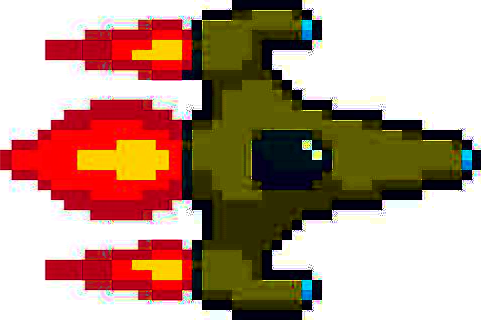
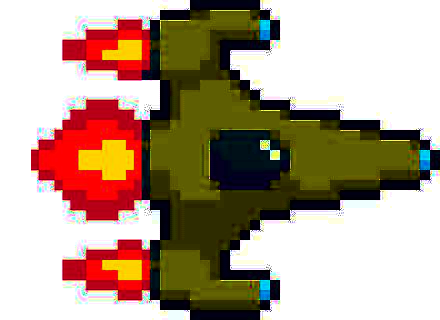
fix animation of the spaceship

diff --git a/spaceship.py b/spaceship.py
@@ -30,8 +30,10 @@ class SpaceShip:
 	def __init__(self, display, x, y, direction, image, frequency=20):
 		self.display = display
 		self.strForImage2 = image[:len(image)-4] + '2' + image[-4:]
-		self.image = pygame.transform.scale(load_file(image), percentPix((8,10)))
+		self.strForImage3 = image[:len(image)-4] + '3' + image[-4:]
+		self.image = pygame.transform.scale(load_file(image), percentPix((9,10)))
 		self.image2 = pygame.transform.scale(load_file(self.strForImage2), percentPix((9,10)))
+		self.image3 = pygame.transform.scale(load_file(self.strForImage3), percentPix((9,10)))
 		if not direction:
 			self.image = pygame.transform.flip(self.image, True, False)
 			self.image2 = pygame.transform.flip(self.image2, True, False)
@@ -58,14 +60,16 @@ class SpaceShip:
 		else: pass
 
 	def update(self):
-		self.incrementFor1Second = self.incrementFor1Second + 1
-		if self.incrementFor1Second == 60:
-			if self.currentImage == self.image:
-				self.currentImage = self.image2
-			elif self.currentImage == self.image2:
-				self.currentImage = self.image
-			self.incrementFor1Second = 0
+		self.incrementFor1Second += 1
+		if self.incrementFor1Second == 1:
+			self.currentImage = self.image
+		elif self.incrementFor1Second == 30:
+			self.currentImage = self.image2
+		elif self.incrementFor1Second == 60:
+			self.currentImage = self.image3
 			self.lastShots = self.frequency
+			self.incrementFor1Second = 0
+
 		for bullet in self.list_bullets:
 			bullet.update()
 			if not self.display.get_rect().colliderect(bullet.rect):
